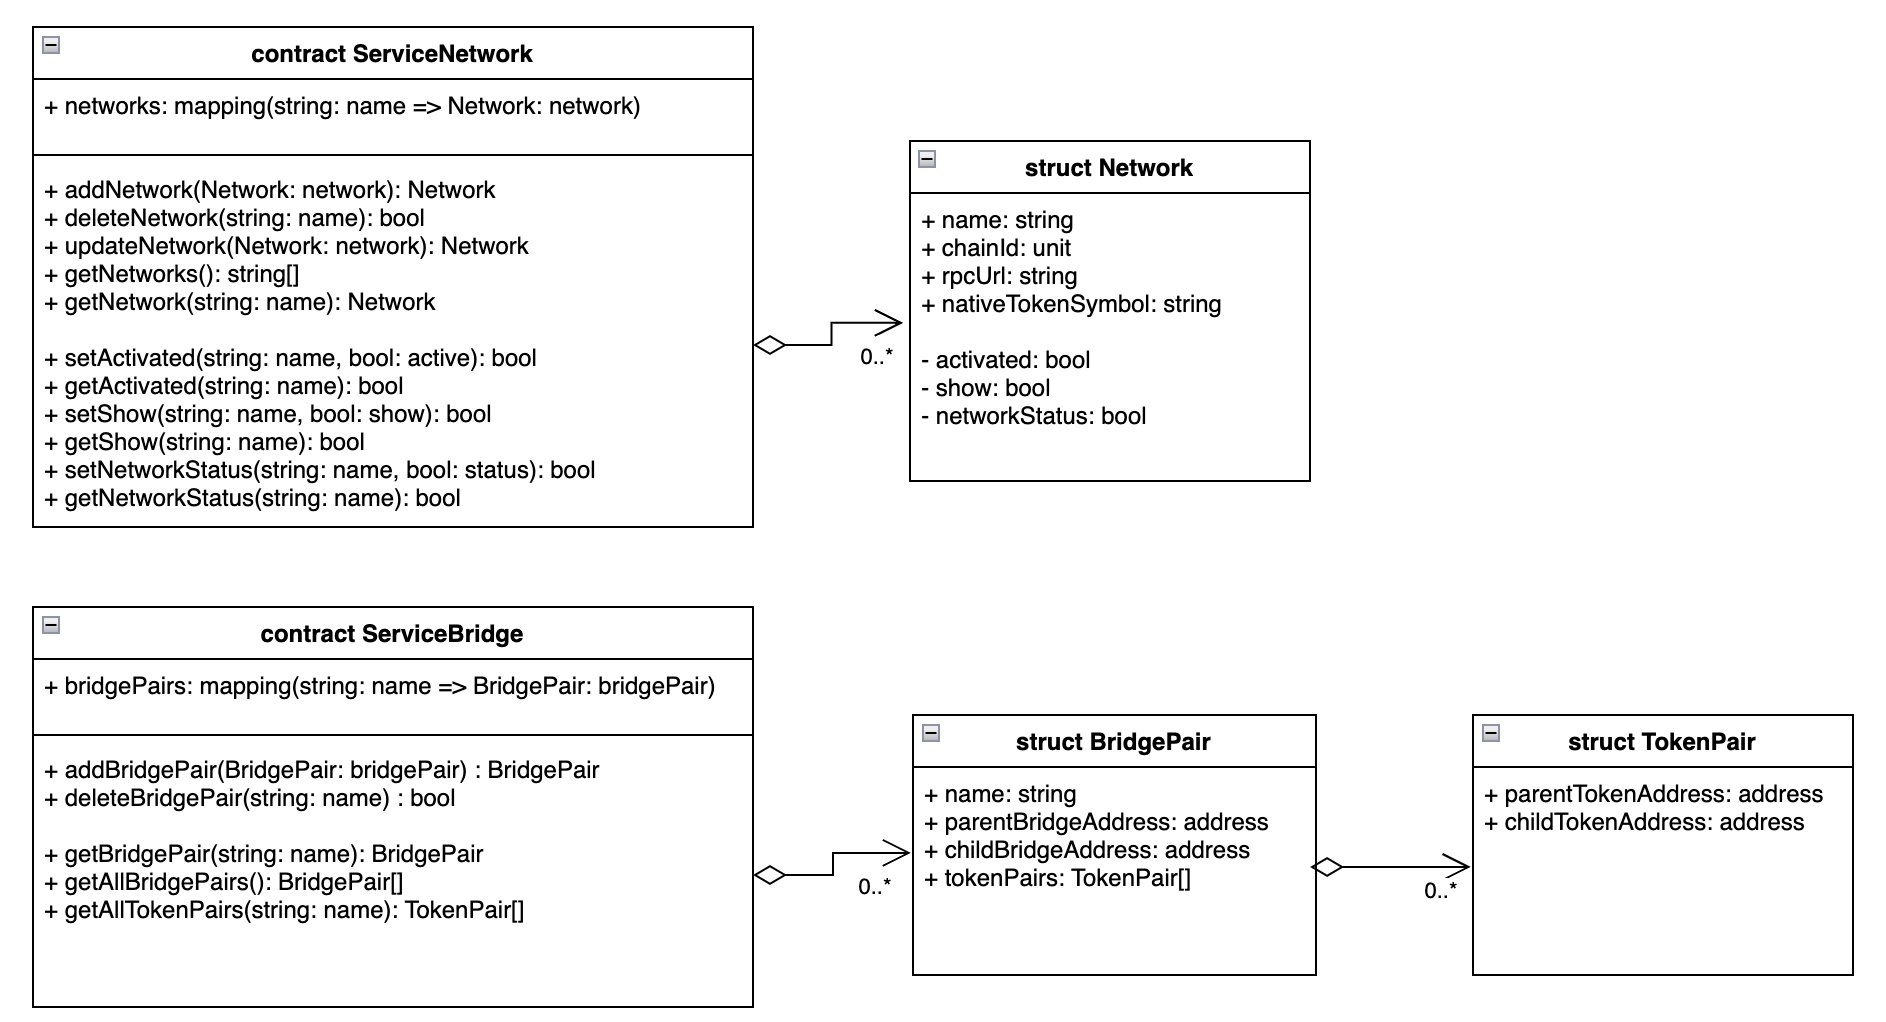
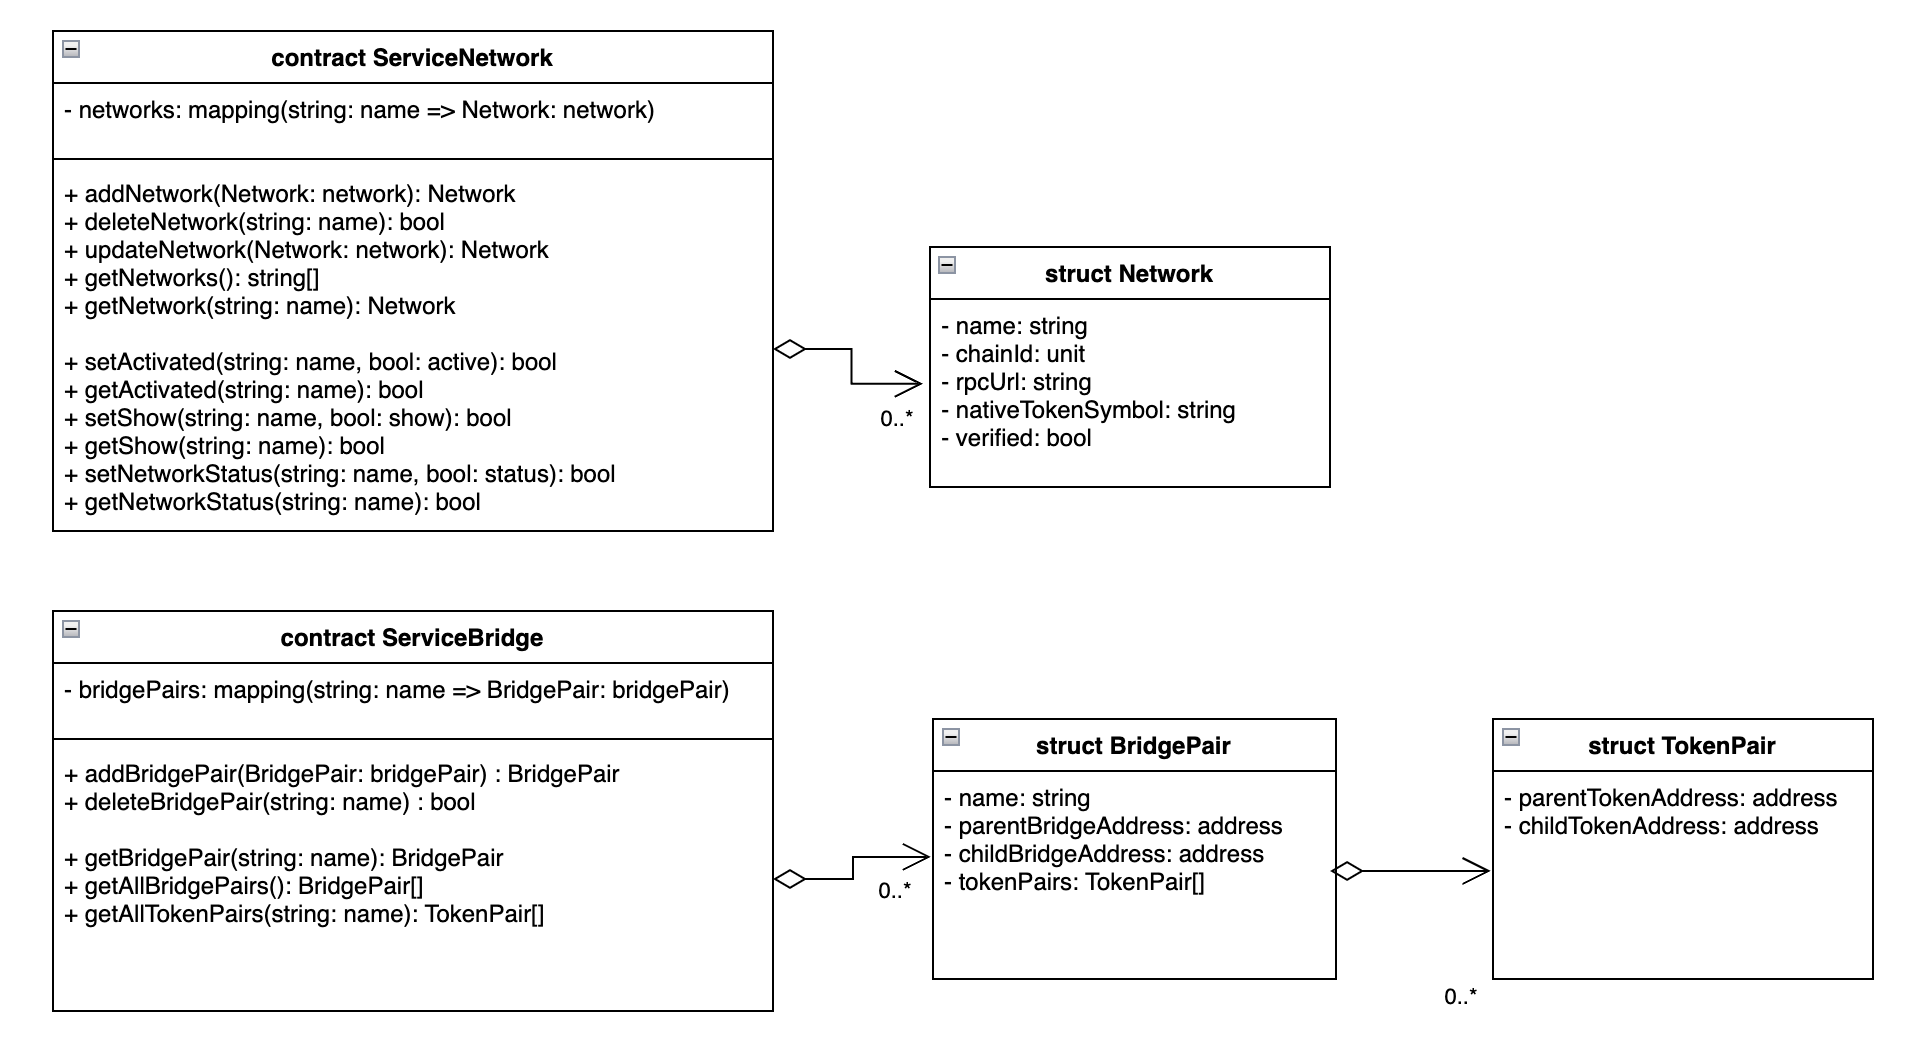
Update image and description

diff --git a/KIPs/kip-98.md b/KIPs/kip-98.md
@@ -34,46 +34,228 @@ BridgeRegistry manages the network, bridge, and token information. BridgeRegistr
 #### Network
 
 `Network` includes network information such as network name, rpcUrl, chainID, and nativeTokenSymbol, and managementnetwork information such as `verified`.
-`verified` is a member variable for managing ServiceChain in services such as wallets, and multiple ServiceChain statuses can be displayed by querying BridgeRegistry in the wallet. For example, when a ServiceChain is newly registered in the BridgeRegistry, the administrator checks whether the ServiceChain has no problem and changes the `verified variable to true. This proposal only mentions the need for network management information such as ‘verified’, and if there are variables necessary for the service, it is recommended to add them at the implementation level.
-
+`verified` is a member variable for managing ServiceChain in services such as wallets, and multiple ServiceChain statuses can be displayed by querying BridgeRegistry in the wallet. For example, when a ServiceChain is newly registered in the BridgeRegistry, the administrator checks whether the ServiceChain has no problem and changes the `verified` variable to true. This proposal only mentions the need for network management information such as `verified`, and if there are variables necessary for the service, it is recommended to add them at the implementation level.
 
 ```
-0x19 <0x4b (K)> <laytn Signed Message:\n" + len(message)> <data to sign>
-```
-
-The version `0x4b` (K) has `<laytn Signed Message:\n" + len(message)>` for the version-specific data. The data to sign can be any arbitrary data.
-
-> NB: The `K` in `Klaytn Signed Message` refers to the version byte 0x4b. The character `K` is `0x4b` in hexadecimal which makes the remainder, `laytn Signed Message:\n + len(message)`, the version-specific data.
-
-[kip-97]: ./kip-97.md
-
-### Specification of the caver.js API
-
-```JavaScript
-caver.klay.accounts.sign('Some data', '0x{private key}');
-```
-
-### Returns
-
-```shell
-{
-    message: 'Some data',
[1 lines of base64/hex data omitted]
-    v: '0x1b',
[3 lines of base64/hex data omitted]
+struct Network {
+    string name;
+    string chainId;
+    string rpcUrl;
+    string nativeTokenSymbol;
+    bool verified;
 }
 ```
 
+#### BridgePair
+
+`BridgePair` includes name, bridgeAddress, and token information of parentBridge and childBridge. This stores the list of token pairs deployed in the parent chain and child chain. 
+
+```
+struct BridgePair {
+    string name;
+    address parentBridgeAddress;
+    address childBridgeAddress;
+    TokenPair[] tokenPairs;
+}
+```
+
+#### TokenPair
+
+In ServiceChain, tokens are paired in both parent chain and child chain. `TokenPair` represents such a pair.
+
+```
+struct TokenPair {
+    address parentTokenAddress;
+    Address childTokenAddress;
+}
+```
+
+### Contract
+
+#### ServiceBridge
+
+`ServiceBridge` is a smart contract that provides an interface including the structs explained above. This contract must be deployed on the main chain, and the addBridgePair function has to be called with the parameter of bridge information whenever a ServiceChain is connected. Then the token information is automatically updated in the addBridgePair function. A unique identifier is needed to register and retrieve each bridgePair, so a member variable called name is useded as unique identifier. 
+
+```
+interface ServiceBridge 
+{
+    function addBridgePair(string memory name, address parentBridgeAddress, address childBridgeAddress ) public; 
+
+    function deleteBridgePair(string memory name) public ;
+
+    function getBridgePair(string memory name) public view returns (BridgePair memory);
+
+    function getAllBridgePairs() public view returns (BridgePair[] memory bridgePairs); 
+
+    function getAllTokenPairs() external view returns (TokenPair[] memory);
+}
+
+```
+
+To automatically query the token type, the existing token contract needs to be updated, which will be explained in the BridgeToken contract which exists in the contracts of Klaytn's ServiceChain. 
+
+#### ServiceNetwork
+
+`ServiceNetwork` is also a smart contract that provides the final interface, including the structs mentioned above. This contract manages the network information of the main chain and ServiceChain.
+
+```
+interface ServiceNetwork 
+{
+    function addNetwork(string memory name, string memory chainId, string memory rpcUrl, string memory nativeTokenSymbol) public returns (bool);
+
+    function deleteNetwork(string memory key) public;
+
+    function updateNetwork(string memory name, string memory chainId, string memory rpcUrl, string memory nativeTokenSymbol) public; 
+
+    function getNetwork(string name) public view returns (Network memory);
+
+    function getAllNetworks() public view returns (Network[] memory);
+
+    function setVerified(string name, bool _verified): bool
+
+    function getVerified(string: name): bool
+}
+```
+
+![Deployment diagram](../assets/kip-98/deployment_diagram.png)
+
+The figure above is a diagram of the deployment of BridgeRegistry and Klaytn's ServiceChain contracts. The ServiceBridge contract makes a contract call to the Bridge contract, which is inherited from BridgeTokens, to retrieve token list information distributed in ServiceChain. For this, the BridgeTokens contract needs to add an API. The description of the API is as follows.
+
+### Update Requirements
+
+#### BridgeTokens
+
+`BridgeTokens` is a smart contract that registers tokens that are deployed in Klaytn's ServiceChain and allows value transfer. This contract has registeredTokens as a member variable which stores Token information deployed in the counterpart chain, but there is no function to retrieve this information. Therefore, the getRegisteredCounterpartTokenList() function must be added in BridgeTokens so that registeredTokens can be retrieved. The wallet service can query the registeredTokens information and display the list of tokens deployed on ServiceChain. The code below is an example of implementing the function.
+
+```
+contract BridgeTokens 
+{
+    mapping(address => address) public registeredTokens; // <token, counterpart token>
+    mapping(address => uint) public indexOfTokens; // <token, index>
+    address[] public registeredTokenList;
+    mapping(address => bool) public lockedTokens;
+
+    ...
+
+    function getRegisteredTokenList() external view returns(address[] memory) {
+        return registeredTokenList;
+    }
+
+    // have to be implemented
+    function getRegisteredCounterpartTokenList() external returns(address[] memory) {
+        address[] memory registeredCounterpartTokenList = new address[](registeredTokenList.length);
+        address temp;
+
+        for (uint256 i = 0; i < registeredTokenList.length; i++) {
+            temp = registeredTokenList[i]; 
+            registeredCounterpartTokenList[i] = registeredTokens[temp];
+        }
+
+        return registeredCounterpartTokenList;
+    }
+
+    ...
+}
+```
+
+#### Tokens to be deployed 
+
+In order to find out the token type with only the contract address, the `supportsInterface()` function of [EIP-165](https://eips.ethereum.org/EIPS/eip-165) must be supported. Because the solidity version of Klaytn ServiceChain is below 0.8.0, `interfaceId` is not supported, for example `type(IERC721).interfaceId`. we implemented as a fallback function, but in Solidity 0.8.0 or higher, you can implement `supportInterface()` by referring to the annotation.
+
+```
+contract ServiceChainToken is ERC20, ERC20Mintable, ERC20Burnable, ERC20ServiceChain 
+{
+    string public constant NAME = "ServiceChainToken";
+    string public constant SYMBOL = "SCT";
+    uint8 public constant DECIMALS = 18;
+    string public constant TokenTYPE = "TokenType.ERC20";
+
+    uint256 public constant INITIAL_SUPPLY = 1000000000 * (10 ** uint256(DECIMALS));
+
+    function supportsInterface(bytes4 interfaceId) public view returns (bool) {
+        return interfaceId == 0x7b6bbd84;
+
+        // interface IERC20Token {
+        //    function NAME() external view returns (string memory);
+        //    function SYMBOL() external view returns (string memory);
+        //    function DECIMALS() external view returns (uint8);
+        //    function supportsInterface(bytes4 interfaceId) external view returns (bool);
+        // }
+        // type(IERC20Token).interfaceId == 0x7b6bbd84
+    }
+
+    constructor(address _bridge) ERC20ServiceChain(_bridge) public {
+        _mint(msg.sender, INITIAL_SUPPLY);
+    }
+}
+```
+
+## Expected Effect
+
+BridgeRegistry is expected to produce the following changes:
+
+- You can easily manage the information on the multiple ServiceChains and various tokens deployed in the ServiceChain.
+- Services such as wallets consistently refer to ServiceChain information to provide value transfer, which can improve user experience.
+
+
 ## Backwards Compatibility
 <!-- All KIPs that introduce backwards incompatibilities must include a section describing these incompatibilities and their severity. The KIP must explain how the author proposes to deal with these incompatibilities. KIP submissions without a sufficient backwards compatibility treatise may be rejected outright. The authors should answer the question: "Does this KIP require a hard fork?" -->
-- [caver-js](https://docs.klaytn.foundation/content/dapp/sdk/caver-js/v1.4.1/api-references/caver.klay.accounts#sign) already sign in this format.
-- [caver-java](https://javadoc.io/doc/com.klaytn.caver/core/1.10.0/com/klaytn/caver/wallet/keyring/PrivateKey.html) already sign in this format.
-
+- If you apply BridgeRegistry according to this proposal, you must update the BridgeTokens contract with the function suggested in this document. 
+- Also, to find out the token type with only the contract address, you need to upgrade the solidity version or implement a fallback function.
 
 ## Reference
-[EIP-191](https://eips.ethereum.org/EIPS/eip-191)
+https://github.com/klaytn/bridgeregistry 
+
+The following is an example of deploying and using BridgeRegistry.
+
+- Prerequisites: The main chain and service chain are connected by a bridge, tokens are distributed, and value transfer must be possible. (Please refer to the ServiceChain Document) You must know the main chain, ServiceChain, and distributed Token information in order to use these informations as an input value to BridgeRegistry. 
+- The code below is part of the code that retrieves the TokenPair list and BridgePair list after distributing BridgeRegistry and registering ServiceChain information in BridgeRegistry. For details, please refer to our [Github repository](https://github.com/klaytn/bridgeregistry).
+
+```
+  ...
+
+  // ServiceChain deployment info 
+  conf = {
+    "child": {
+        "url":"http://127.0.0.1:8554",
+        "operator":"0xfefa3bc164b7eba36a23d78dfc0bbf2d62de7ef3",
+        "bridge":"0x6F00592E9339121D7773AF150EE0C4f1f77B8d1A"
+    },
+    "parent": {
+        "url":"http://127.0.0.1:8553",
+        "operator":"0x92a34307ed247f191858a8813a6dccf9f331fb52",
+        "bridge":"0x3e2E28f4dc8DFa8E41B4BE8714A02F9500033DC0"
+    }
+  };
+
+  ... 
+
+  // deploy BridgeRegistry
+  const ServiceBridge = await ethers.getContractFactory("ServiceBridge", {
+      signer: owner
+  });
+  const serviceBridge = await ServiceBridge.deploy();
+  await serviceBridge.deployed();
+
+  // register ServiceChain bridge info to BridgeRegistry
+  const tx1 = await serviceBridge.addBridgePair( "testBridge1", "1001", conf.parent.bridge, "2000", conf.child.bridge);
+
+  // query all bridgePair list from BridgeRegistry 
+  const allBridges = await serviceBridge.getAllBridgePairs();
+
+  // query all tokenPair list from BridgeRegistry 
+  const allTokenPairs = await serviceBridge.getAllTokenPairs();
+
+  ...
+```
+
+- Through the above query, a service such as a wallet can show the bridge list and token list to the user. This proposal does not limit the specific UI that shows and selects a list of bridges or tokens in a wallet or service.
+
+![Add bridge](../assets/kip-98/add_bridge.png)
+
+- Users can select the token of a bridge and request value transfer. The overall process is explained here, so please refer to the ServiceChain document for details of value transfer.
+
+![Value transfer](../assets/kip-98/value_transfer.png)
 
 ## Copyright
 Copyright and related rights waived via [CC0](https://creativecommons.org/publicdomain/zero/1.0/).
